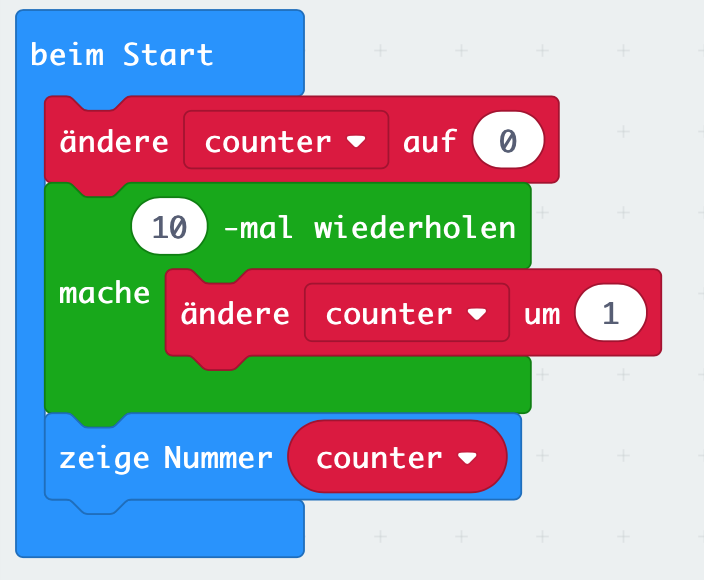
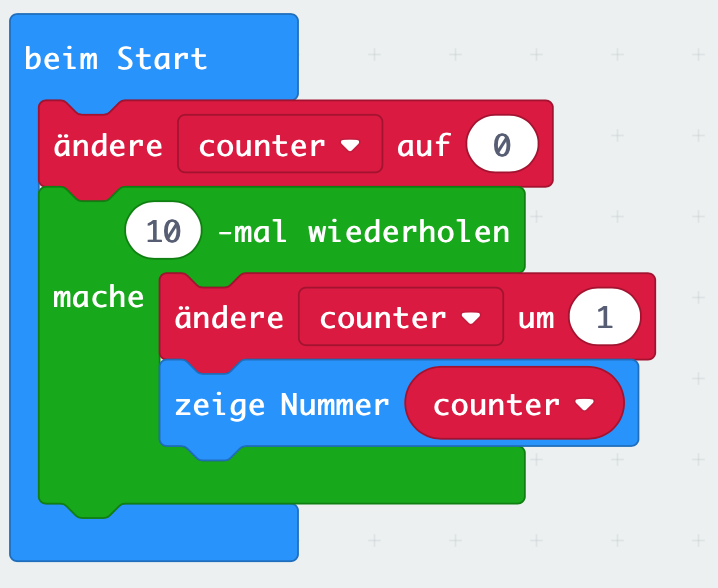
some new lessons

Changed region(s): [[0.0, 0.0, 0.9688, 0.9621]]

diff --git a/microbit/makecode/lesson02_button/main.js b/microbit/makecode/lesson02_button/main.js
@@ -1,8 +1,7 @@
 
-basic.forever(function () {
+input.onButtonPressed(Button.A, function () {
     basic.showIcon(IconNames.Heart)
-    basic.pause(2000)
-    basic.clearScreen()
-    basic.pause(500)
 })
-
+input.onButtonPressed(Button.B, function () {
+    basic.clearScreen()
+})

diff --git a/microbit/makecode/lesson04_variable/main.js b/microbit/makecode/lesson04_variable/main.js
@@ -3,5 +3,5 @@ let counter = 0
 counter = 0
 for (let i = 0; i < 10; i++) {
     counter += 1
+    basic.showNumber(counter)
 }
-basic.showNumber(counter)

diff --git a/microbit/micropython/lesson10_adding_display/main.py b/microbit/micropython/lesson10_adding_display/main.py
@@ -1,8 +1,6 @@
 
-# https://www.littlebird.com.au/learn/77/0-96-oled-screen-with-micro-bit
-
 import machine, ssd1306
-i2c = machine.I2C(scl=machine.Pin(22), sda=machine.Pin(18))
+i2c = machine.I2C(scl=machine.Pin(19), sda=machine.Pin(20))
 oled = ssd1306.SSD1306_I2C(128, 64, i2c, 0x3c)
 oled.fill(0)
 oled.text("Hello World", 0, 0)

diff --git a/microbit/micropython/lesson10_adding_display/README.md b/microbit/micropython/lesson10_adding_display/README.md
@@ -1,6 +1,7 @@
 ---
 title: Lektion 10  - OLED
 parent: Microbit Micropython
+grand_parent: Microbit
 has_children: false
 nav_order: 11
 permalink: /microbit/micropython/lesson10_adding_display/
@@ -8,11 +9,62 @@ permalink: /microbit/micropython/lesson10_adding_display/
 
 # Lektion 10 - OLED anschließen 
 
-___TODO___
+## Hardware
 
-![Wiring](./wiring.png "Wiring")
+In diese Lektion schließt Du an Deinen __Micro:Bit__ ein zusätzliches OLED an.
+
+### OLED 64x128 I2C 0,96'' Monochrome Display
+
+Das hier verwendete Display hat eine Größe von 0,96 Zoll, dies entspricht etwa 2,4 cm in der Diagonale. Das OLED kann 64x128 Bildpunkte (Pixel) in einer Farbe (monochrome) darstellen. Angeschlossen wird es über den I2C-Bus, eine Verbindungsart bei der bis zu 127 Geräte gleichzeitig über lediglich zwei Leitungen (SCL und SDA) gesteuert werden können.
+
+<img src="./oled.png" width="250px"/>
+
+
+## Anschlüsse
+
+Schließe nun das OLED wie in dem Bild unten an. 
+
+<img src="./wiring.png" width="250px"/>
+
+Die Belegung in tabellarischer Form.
+
+| OLED | Micro:bit | Beschreibung |
+| --- | --- | --- |
+| VCC | 3V | Spannungsversorgung |
+| GND | GND | Masseleitung |
+| SCL | Pin 19 (SCL) | Signal Clock |
+| SDA | Pin 20 (SDA) | Signal Data |
 
 ## Anleitung
+
+Lade zunächst die Bibliothek für das SSD1306 Display auf Deinen __Micro:Bit__.
+
+Anschließend musst Du die Bibliothek und die `machine`-Bibliothek importieren
+
+```js
+import machine
+import ssd1306
+```
+
+Als nächstes musst Du den I2C-Bus initialisieren. Aus der Tabelle können wir entnehmen, dass SCL an Pin 19 und SDA am Pin 20 anliegen. 
+
+```js
+i2c = machine.I2C(scl=machine.Pin(19), sda=machine.Pin(20))
+````
+
+Bevor wir das OLED im Programm nutzen können, muss erst noch eine Instanz der Klasse SSD1306_I2C erstellt werden. Dem Konstruktor übergeben wir die Anzahl der Pixel in der Horizontalen (128), die Anzahl der Pixel in der Vertikalen (64), das I2C-Objekt. Der letzte Parameter gibt die I2C-Adresse des Displays an. Dies ist notwendig da der I2C-Bus bis zu 127 Geräte über die zwei Leitungen ansprechen kann und daher die Adresse benötigt wird, um das jeweilige Gerät anzusprechen.
+
+```js
+oled = ssd1306.SSD1306_I2C(128, 64, i2c, 0x3c)
+```
+
+Jetzt kannst Du das Display ansprechen und z.B. Text darstellen.
+
+```js
+oled.fill(0)
+oled.text("Hello World", 0, 0)
+oled.show()
+```
 
 ## Python-Code
 
@@ -22,8 +74,8 @@ ___TODO___
 
 ## Verwendete Bibliotheken
 
-- SSD1306 https://github.com/fizban99/microbit_ssd1306
+- [SSD1306](https://github.com/fizban99/microbit_ssd1306)
 
 ## Beispiele
 
-- 0,96'' OLED https://www.littlebird.com.au/learn/77/0-96-oled-screen-with-micro-bit
+- [0,96'' OLED](https://www.littlebird.com.au/learn/77/0-96-oled-screen-with-micro-bit)

diff --git a/microbit/makecode/lesson18_timing_gates/README.md b/microbit/makecode/lesson18_timing_gates/README.md
@@ -12,7 +12,7 @@ permalink: /microbit/makecode/lesson18_timing_gates/
 Externe Lektion
 {: .label .label-red }
 
-Ziel ist es Deinen __Micro:Bit__ in eine Zeit- und Geschwindigkeitsmessstation zu verwandeln. Damit kannst Du z.B. die Geschwindigkeit von ferngesteuerten Autos messen oder einen Rundentähler für Deine Carrerabahn bauen.
+Ziel ist es Deinen __Micro:Bit__ in eine Zeit- und Geschwindigkeitsmessstation zu verwandeln. Damit kannst Du z.B. die Geschwindigkeit von ferngesteuerten Autos messen oder einen Rundenzähler für Deine Carrerabahn bauen.
 Folge dem Artikel 
 [Timing Gates](https://makecode.microbit.org/projects/timing-gates "Timing Gates")
 

diff --git a/microbit/makecode/lesson14_temperatur_sensor/README.md b/microbit/makecode/lesson14_temperatur_sensor/README.md
@@ -43,6 +43,14 @@ Das hier verwendete Display hat eine Größe von 0,96 Zoll, dies entspricht etwa
 
 Schließe  den Temperatursensor DHT11 oder DHT22 und das OLED wie in folgendem Bild dargestellt an Deinen __Micro:Bit__ an. 
 
+| OLED | DHT11 | Micro:bit | Beschreibung |
+| --- | --- | --- | --- |
+| VCC | 3V | 3V | Spannungsversorgung |
+| GND | GND | GND | Masseleitung |
+| SCL | | Pin 19 (SCL) | Signal Clock |
+| SDA | | Pin 20 (SDA) | Signal Data |
+| | X | Pin 0 | Analog In |
+
 <img src="./wiring.png" width="450px"/>
 
 ## Anleitung

diff --git a/microbit/micropython/lesson01_hello_world/README.md b/microbit/micropython/lesson01_hello_world/README.md
@@ -11,8 +11,7 @@ permalink: /microbit/micropython/lesson01_hello_world/
 
 ## Anleitung
 
-Nutze eine Endlosschleife um abwechselnd ein Icon anzuzeigen und den LED-Bildschirm zu löschen. 
-Zwischen dem Anzeigen und Löschen soll jeweils eine kurze Pause eingehalten werden.
+Gib auf dem Matix-LED-Display Deines __Micro:Bit__ den Text _Hello World!_ aus.
 
 ## Python-Code
 

diff --git a/microbit/makecode/lesson17_remote_disc_shooter/README.md b/microbit/makecode/lesson17_remote_disc_shooter/README.md
@@ -1,5 +1,5 @@
 ---
-title: Lektion 17 - Ferngesteuerter Disc-Shooter
+title: Lektion 17 - Disc-Shooter
 parent: Microbit MakeCode
 grand_parent: Microbit
 has_children: false
@@ -12,4 +12,4 @@ permalink: /microbit/makecode/lesson17_remote_disc_shooter/
 Hardware
 {: .label .label-green }
 
-___ToDo___
+In dieser Lektion baust Du einen ferngesteuerten Disc-Shooter. 

diff --git a/microbit/makecode/lesson11_traffic_light/README.md b/microbit/makecode/lesson11_traffic_light/README.md
@@ -69,3 +69,8 @@ So könnte die erweiterte Variante Deines Programms aussehen.
 {% highlight javascript %}
     {% include_relative main_advanced.js %}
 {% endhighlight %}
+
+## Ampel
+
+- [Ampelgehäuse 3D-Druck](https://www.thingiverse.com/thing:2775818)
+- [Basisset LEDs](https://www.amazon.de/dp/B00N9WEY0S/ref=pe_3044161_185740101_TE_item)

diff --git a/microbit/micropython/lesson11_adding_ultrasonic_sensor/README.md b/microbit/micropython/lesson11_adding_ultrasonic_sensor/README.md
@@ -1,6 +1,7 @@
 ---
 title: Lektion 11  - Ultraschallsensor
 parent: Microbit Micropython
+grand_parent: Microbit
 has_children: false
 nav_order: 12
 permalink: /microbit/micropython/lesson11_adding_ultrasonic_sensor/

diff --git a/microbit/micropython/lesson12_radio_fireflies/README.md b/microbit/micropython/lesson12_radio_fireflies/README.md
@@ -1,6 +1,7 @@
 ---
 title: Lektion 12  - Fireflies
 parent: Microbit Micropython
+grand_parent: Microbit
 has_children: false
 nav_order: 12
 permalink: /microbit/micropython/lesson12_radio_fireflies/

diff --git a/microbit/makecode/lesson19_where_to_go_next/README.md b/microbit/makecode/lesson19_where_to_go_next/README.md
@@ -1,5 +1,5 @@
 ---
-title: Wie geht es weiter?
+title: Ausblick
 parent: Microbit MakeCode
 grand_parent: Microbit
 has_children: false
